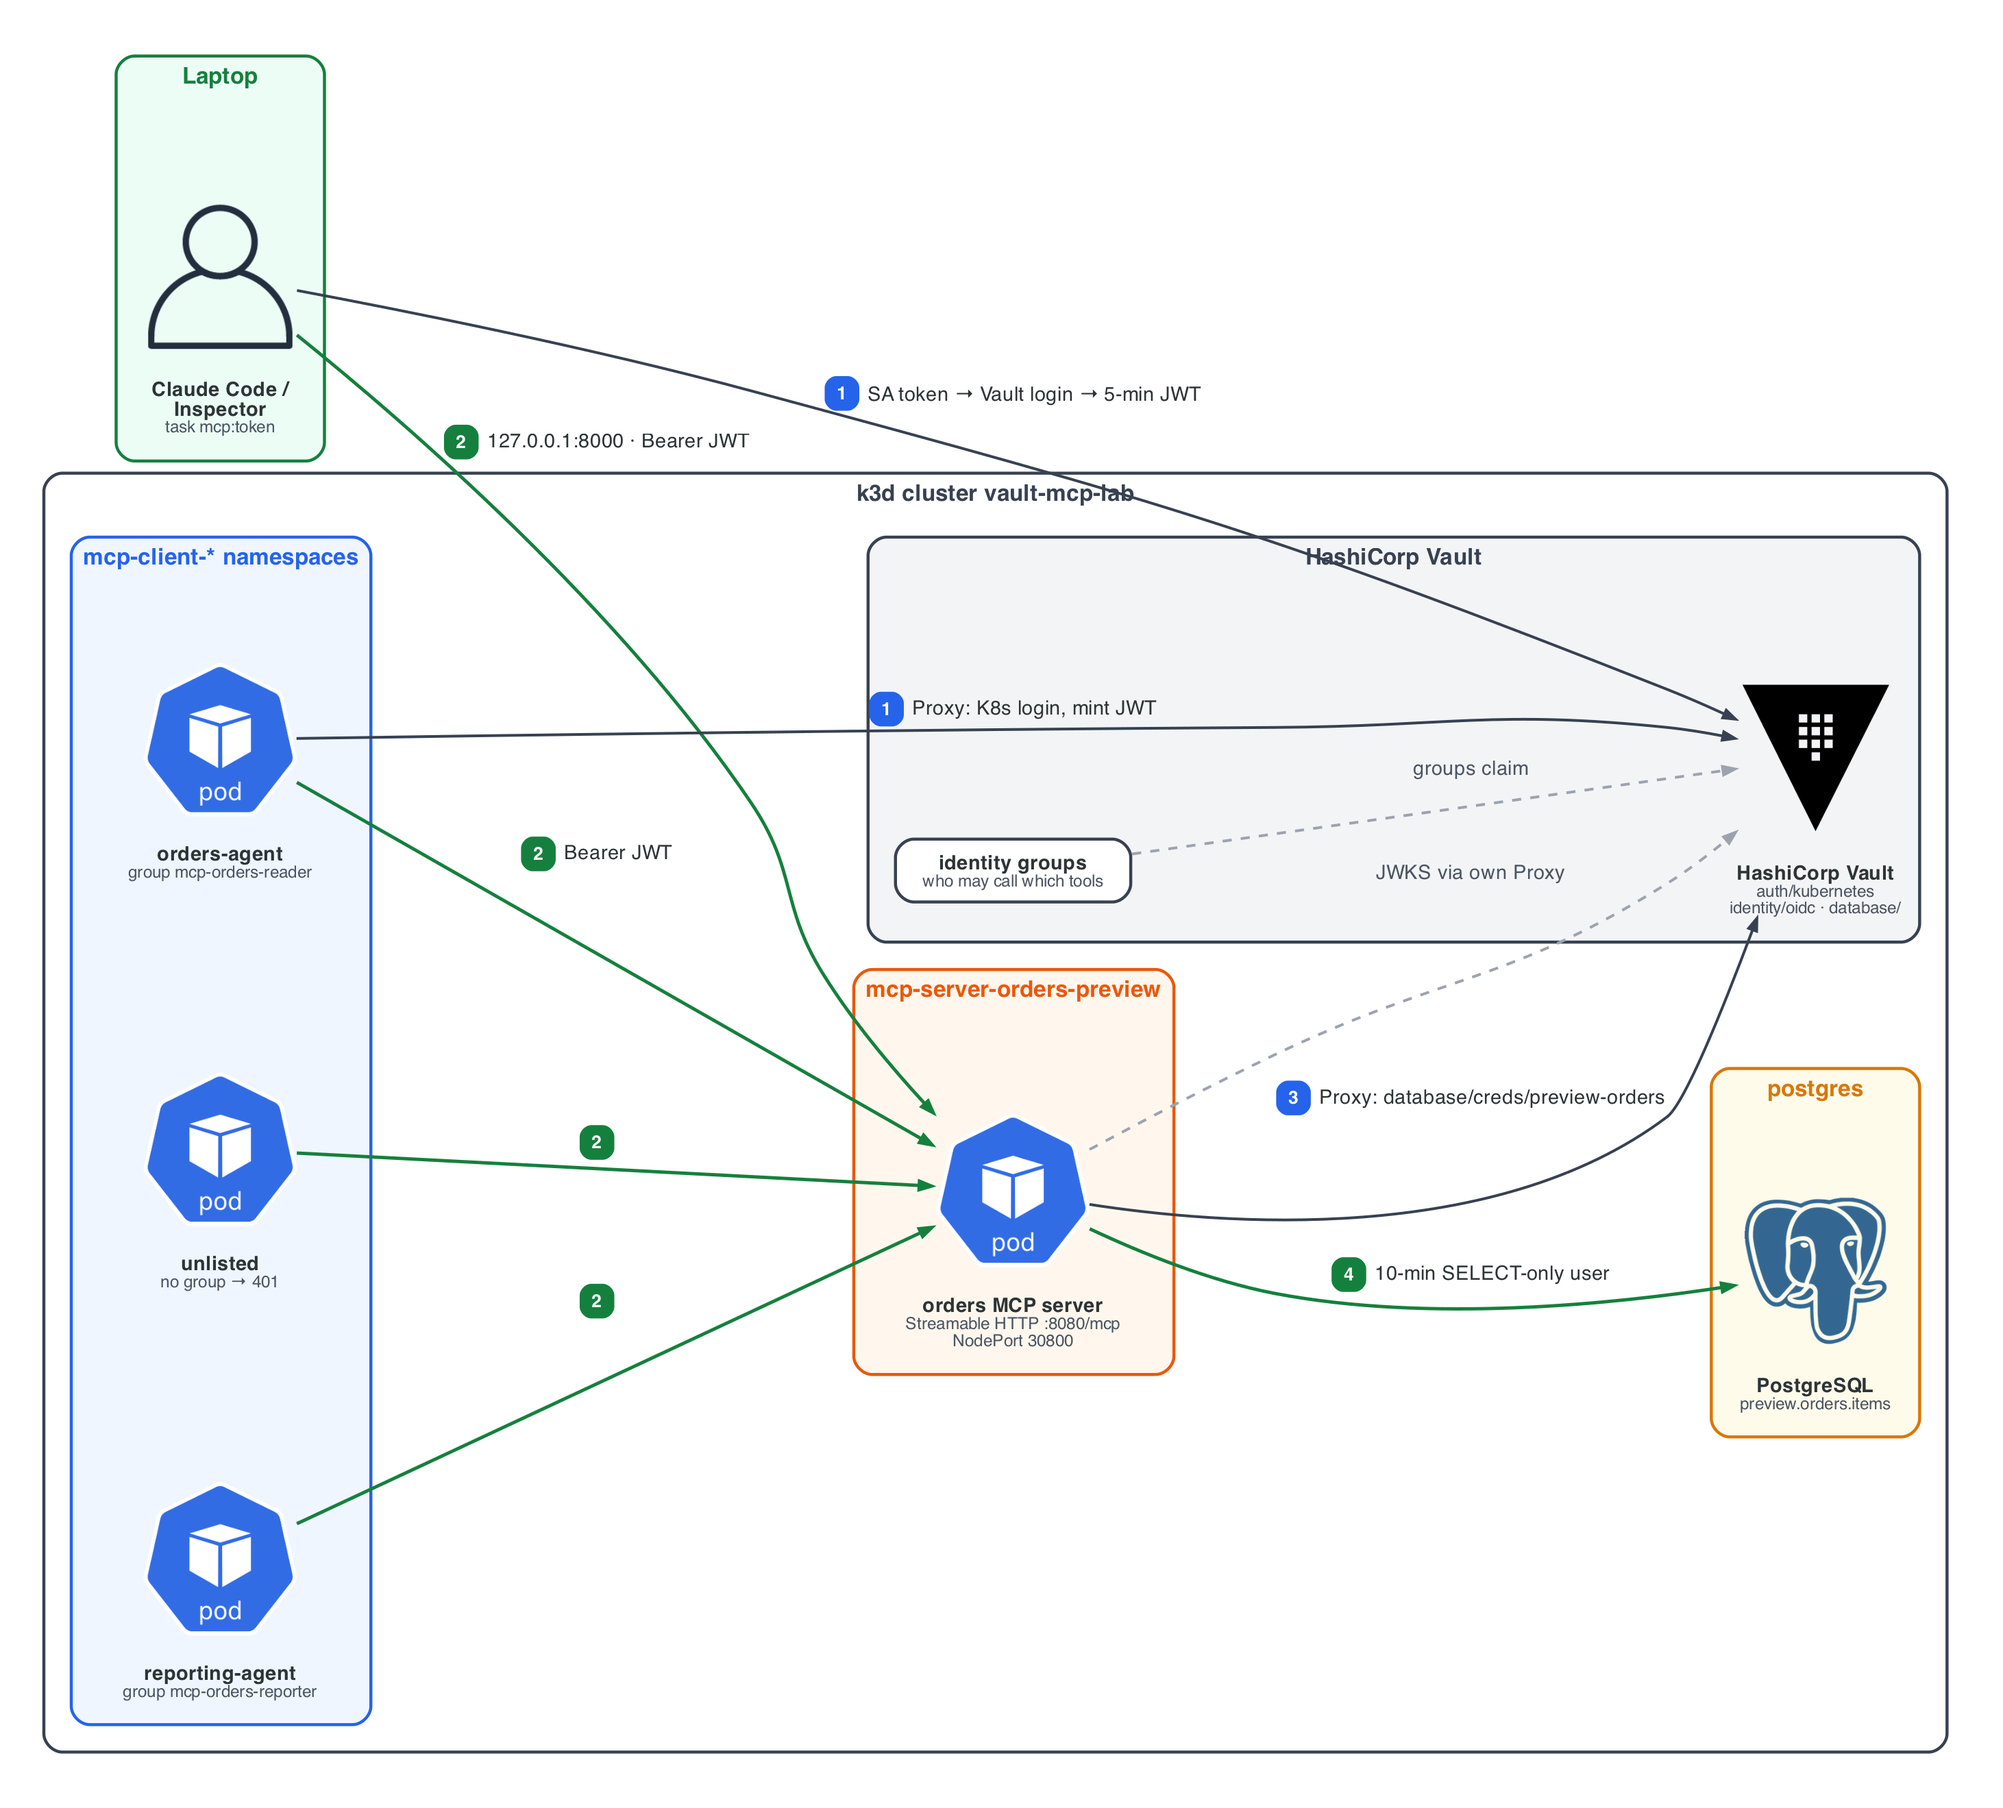
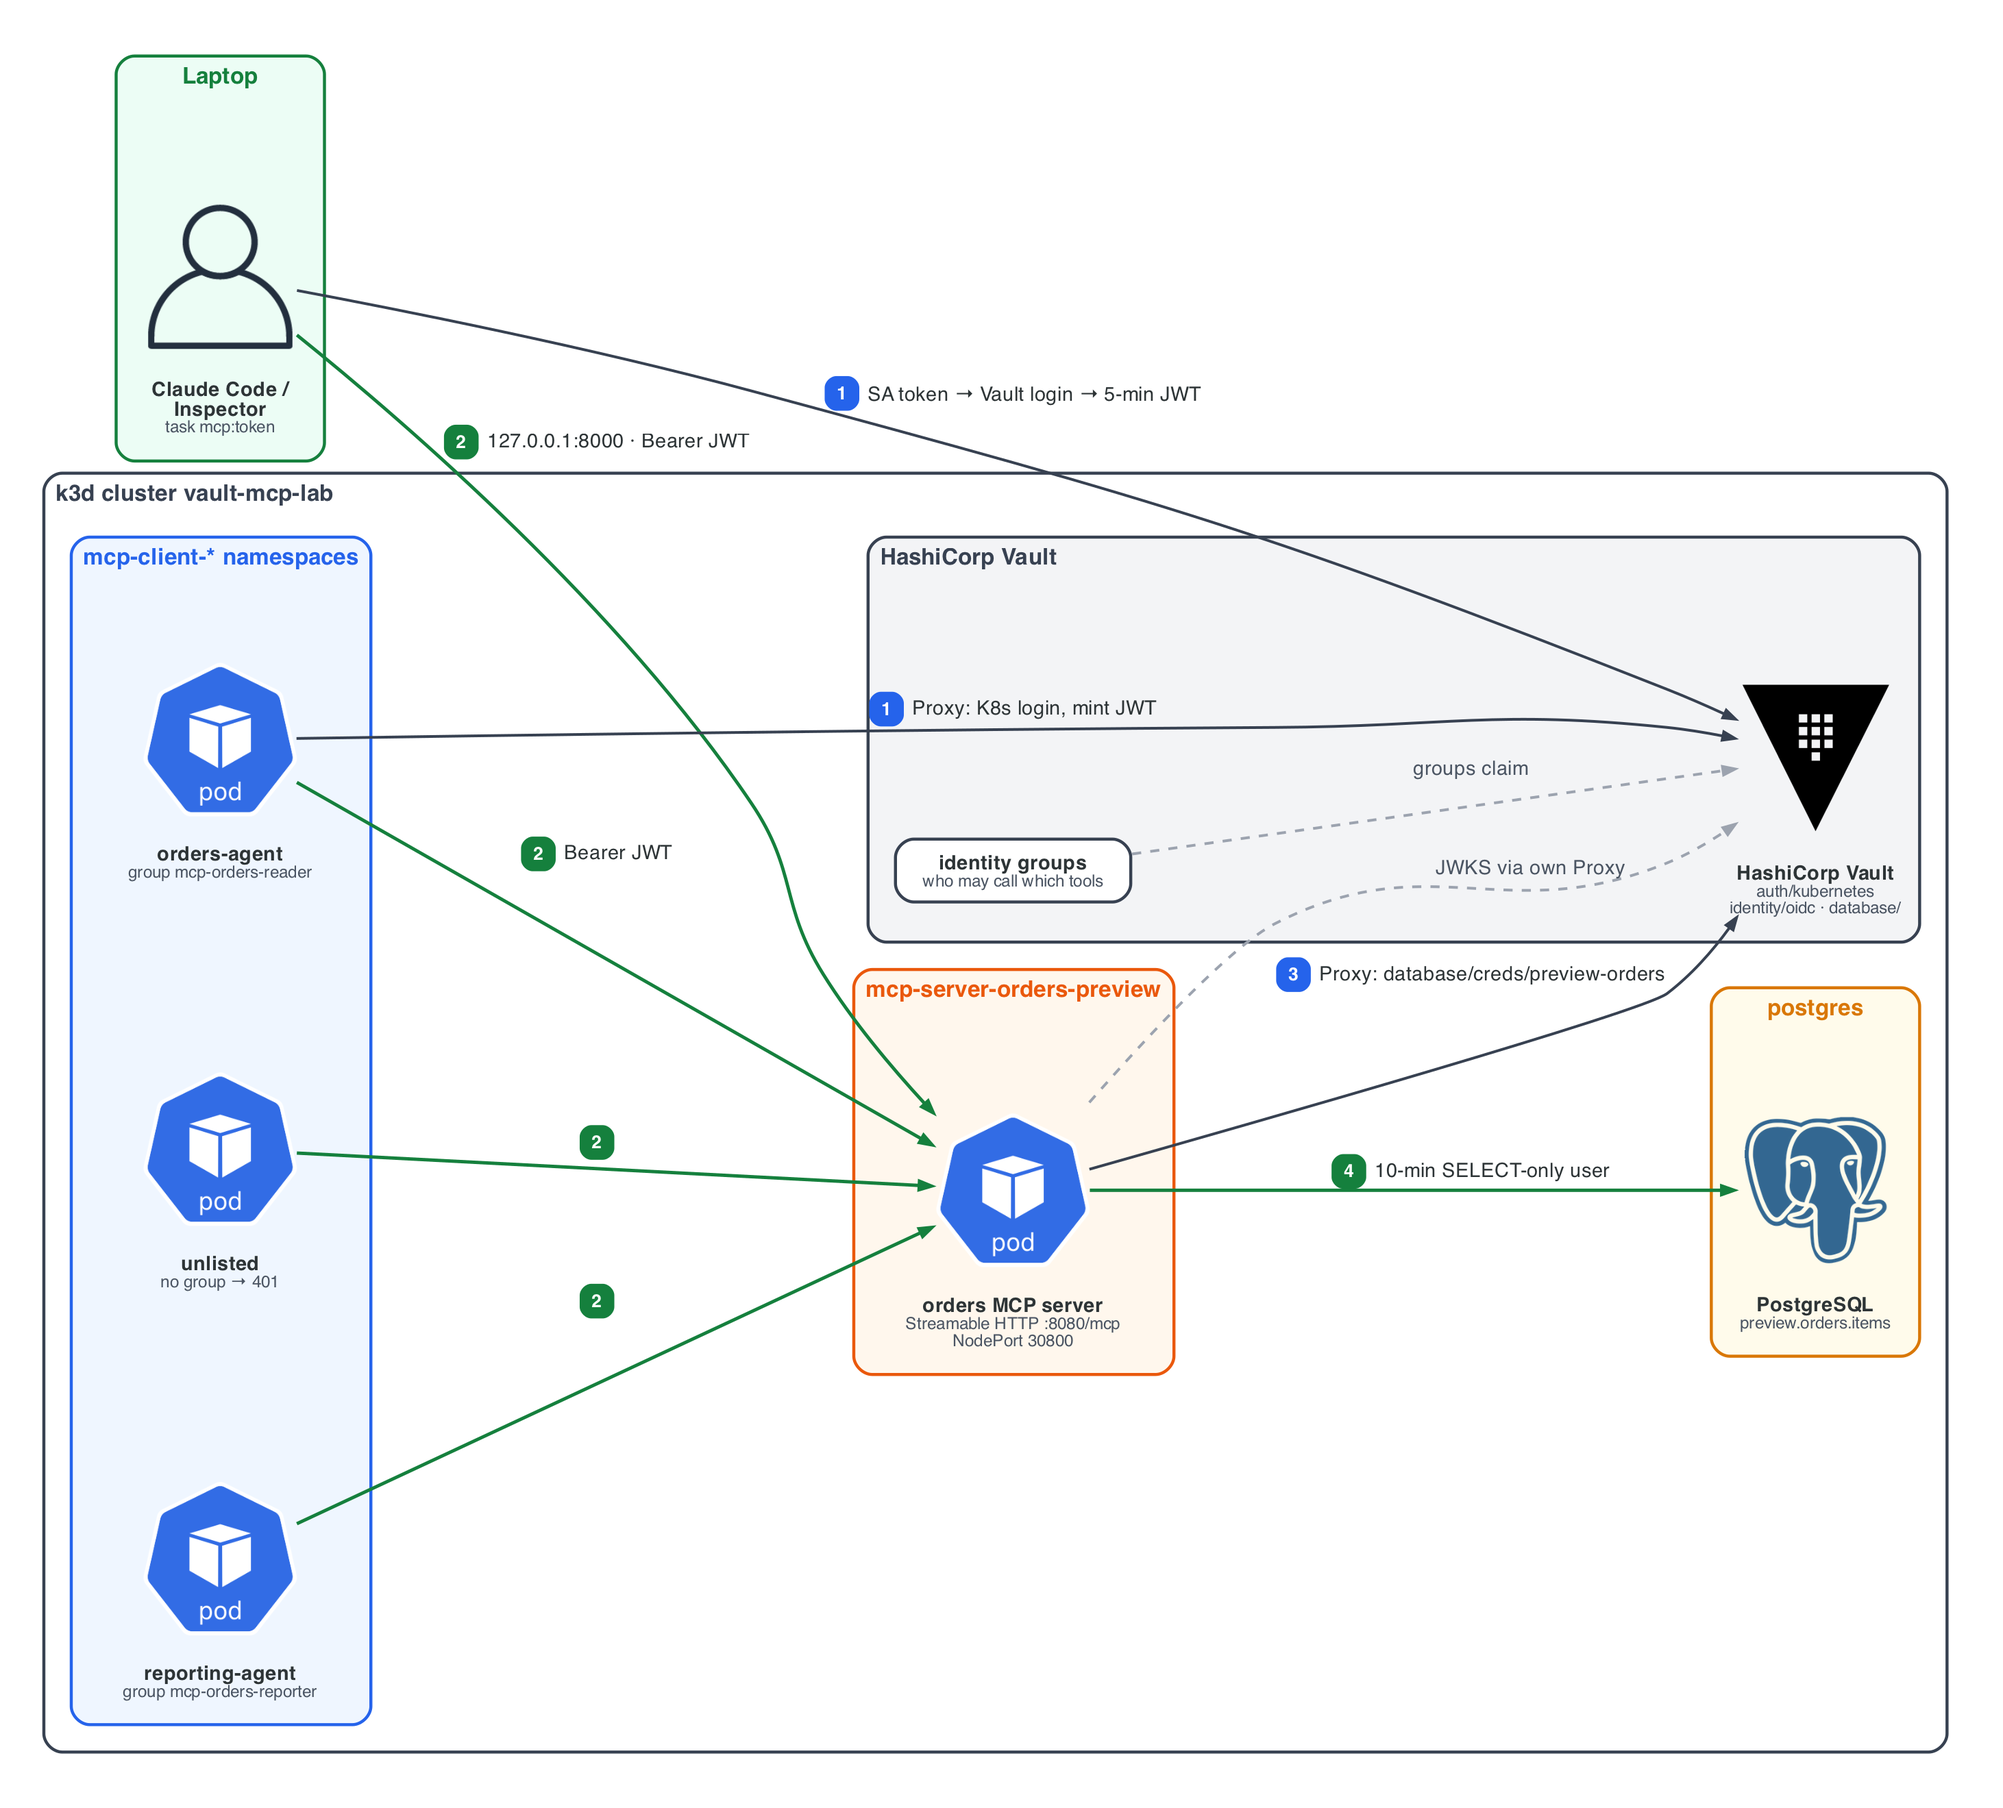
docs: fix diagram layout

diff --git a/docs/diagrams/common.py b/docs/diagrams/common.py
@@ -69,7 +69,10 @@ def diagram(name: str, direction: str = "LR", **graph) -> Diagram:
     )
 
 
-def group(title: str, colour: str = ORANGE, fill: str = ORANGE_FILL) -> Cluster:
+def group(
+    title: str, colour: str = ORANGE, fill: str = ORANGE_FILL, labeljust: str = "c"
+) -> Cluster:
+    """labeljust="l" moves the title aside when an edge would cross it."""
     return Cluster(
         title,
         graph_attr={
@@ -80,7 +83,7 @@ def group(title: str, colour: str = ORANGE, fill: str = ORANGE_FILL) -> Cluster:
             "fontname": f"{FONT} Bold",
             "fontcolor": colour,
             "fontsize": "15",
-            "labeljust": "c",
+            "labeljust": labeljust,
             "margin": "18",
         },
     )
@@ -100,8 +103,8 @@ def laptop(title: str = "Laptop") -> Cluster:
     return group(title, GREEN, GREEN_FILL)
 
 
-def vault_ns(title: str = "HashiCorp Vault") -> Cluster:
-    return group(title, GREY, GREY_FILL)
+def vault_ns(title: str = "HashiCorp Vault", labeljust: str = "c") -> Cluster:
+    return group(title, GREY, GREY_FILL, labeljust)
 
 
 def data_ns(title: str = "postgres") -> Cluster:
@@ -181,6 +184,8 @@ def step(n: int, text: str = "", external: bool = False, **attrs) -> Edge:
     whose midpoint would land on a group border.
     """
     key = "xlabel" if external else "label"
+    if external and text:
+        text += "&#160;" * 3  # keeps the text clear of the edge
     return Edge(**{key: _badge(n, text, BLUE)}, **attrs)
 
 
@@ -195,19 +200,23 @@ def deliver(n: int | None = None, text: str = "", **attrs) -> Edge:
 
 
 def exchange(request: tuple[int, str], reply: tuple[int, str], **attrs) -> Edge:
-    """Request (blue) and its reply (green) on one two-way edge, so their labels cannot overlap."""
-    gap = "&#160;" * 3  # keeps the curved edge clear of the text
+    """Request (blue) and its reply (green) on one two-way edge, with their labels stacked."""
+    gap = "&#160;" * 6  # leaves room for the edge between the badges and the text
     rows = _badge_row(request[0], gap + request[1], BLUE)
     rows += _badge_row(reply[0], gap + reply[1], GREEN)
     lbl = f'<<table border="0" cellspacing="0" cellpadding="1">{rows}</table>>'
     return Edge(label=lbl, reverse=True, **attrs)
 
 
-def ref(text: str = "", n: int | None = None, **attrs) -> Edge:
-    """Reference / configuration link (dashed grey)."""
+def ref(text: str = "", n: int | None = None, anchor: str = "label", **attrs) -> Edge:
+    """Reference / configuration link (dashed grey).
+
+    anchor="headlabel" or "taillabel" puts the text near one end of the edge; place it with
+    labeldistance and labelangle.
+    """
     lbl = (
         _badge(n, text, REF)
         if n
         else (f'<<font color="{MUTED}">{text}</font>>' if text else "")
     )
-    return Edge(label=lbl, style="dashed", color=REF, **attrs)
+    return Edge(**{anchor: lbl}, style="dashed", color=REF, **attrs)

diff --git a/docs/diagrams/architecture.py b/docs/diagrams/architecture.py
@@ -26,7 +26,7 @@ with diagram("architecture", direction="LR"):
     with laptop("Laptop"):
         you = icon(User, "Claude Code /<br/>Inspector", "task mcp:token")
 
-    with group("k3d cluster vault-mcp-lab", GREY, "white"):
+    with group("k3d cluster vault-mcp-lab", GREY, "white", labeljust="l"):
         with client_ns("mcp-client-* namespaces"):
             agent = icon(Pod, "orders-agent", "group mcp-orders-reader")
             reporter = icon(Pod, "reporting-agent", "group mcp-orders-reporter")
@@ -35,7 +35,7 @@ with diagram("architecture", direction="LR"):
             server = icon(
                 Pod, "orders MCP server", "Streamable HTTP :8080/mcp\nNodePort 30800"
             )
-        with vault_ns():
+        with vault_ns(labeljust="l"):
             vault = icon(
                 Vault,
                 "HashiCorp Vault",
@@ -54,7 +54,16 @@ with diagram("architecture", direction="LR"):
     agent >> deliver(2, "Bearer JWT") >> server
     reporter >> deliver(2) >> server
     unlisted >> deliver(2) >> server
-    server >> ref("JWKS via own Proxy") >> vault
+    (
+        server
+        >> ref(
+            "JWKS via own Proxy",
+            anchor="headlabel",
+            labeldistance="14",
+            labelangle="-22",
+        )
+        >> vault
+    )
     server >> step(3, "Proxy: database/creds/preview-orders") >> vault
     server >> deliver(4, "10-min SELECT-only user") >> pg
     groups >> ref("groups claim") >> vault

diff --git a/docs/diagrams/identity_broker.py b/docs/diagrams/identity_broker.py
@@ -42,12 +42,18 @@ with diagram("identity-broker", direction="LR", nodesep="1.0", ranksep="1.6"):
     same_rank(sa, proxy_c, app_c)
     same_rank(auth, grp, oidc, jwks)
 
-    sa >> step(1, "login") >> proxy_c
+    sa >> step(1, "login", external=True) >> proxy_c
     proxy_c >> step(2, "K8s login") >> auth
     auth >> ref("TokenReview") >> api
-    app_c >> step(3, "read token over socket") >> proxy_c
+    app_c >> step(3, "read JWT", external=True) >> proxy_c
     proxy_c >> step(4) >> oidc
-    grp >> ref("groups claim") >> oidc
+    (
+        grp
+        >> ref(
+            "groups claim", anchor="taillabel", labeldistance="7.5", labelangle="-120"
+        )
+        >> oidc
+    )
     oidc >> deliver(5, "JWT: iss, aud, exp, sub, groups") >> app_c
     app_c >> deliver(6, "Authorization: Bearer") >> mcp
     mcp >> step(7, "JWKS (cached, refetch on new kid)") >> proxy_s >> jwks

diff --git a/docs/diagrams/laptop_token.py b/docs/diagrams/laptop_token.py
@@ -33,11 +33,12 @@ with diagram("laptop-token", direction="LR"):
     with server_ns("MCP server · 127.0.0.1:8000"):
         mcp = icon(Pod, "orders MCP server")
 
-    you >> step(1, "SA token") >> api
-    you >> step(2, "login (JWT on stdin)") >> login
-    you >> step(3, "mint") >> mint
-    you >> step(4) >> revoke
-    you >> deliver(5, "Bearer JWT") >> mcp
+    # tailport: start every edge at the icon, not at the top of the padded node
+    you >> step(1, "SA token", tailport="e") >> api
+    you >> step(2, "login (JWT on stdin)", tailport="e") >> login
+    you >> step(3, "mint", tailport="e") >> mint
+    you >> step(4, tailport="e") >> revoke
+    you >> deliver(5, "Bearer JWT", tailport="e") >> mcp
     (
         note("Root token from .env is never used.<br/>Only the JWT reaches stdout.")
         >> ref()

diff --git a/docs/diagrams/dynamic_db.py b/docs/diagrams/dynamic_db.py
@@ -43,7 +43,7 @@ with diagram("dynamic-db", direction="LR"):
     same_rank(sa, proxy, app)
     same_rank(role, creds)
 
-    sa >> step(1, "login") >> proxy >> step(2) >> role
+    sa >> step(1, "login", external=True) >> proxy >> step(2) >> role
     (
         app
         >> exchange(
